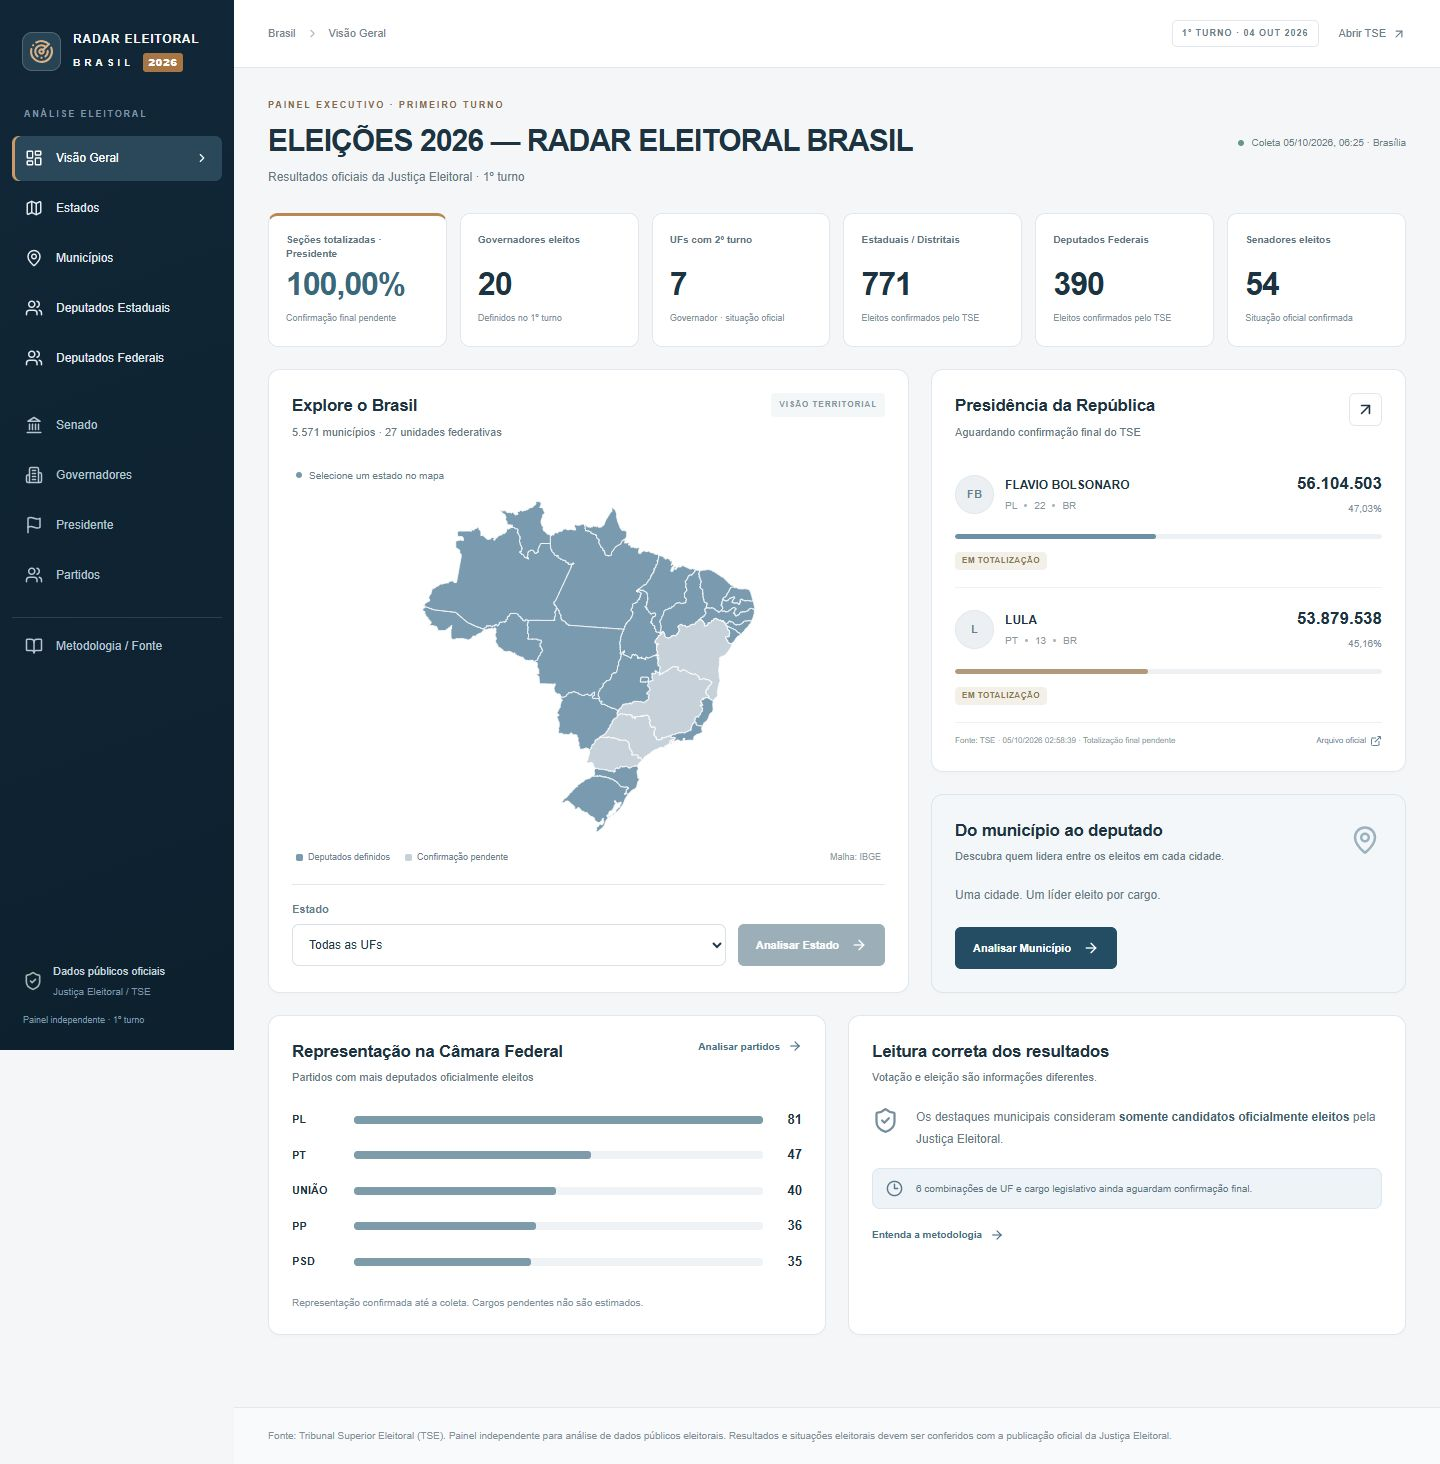
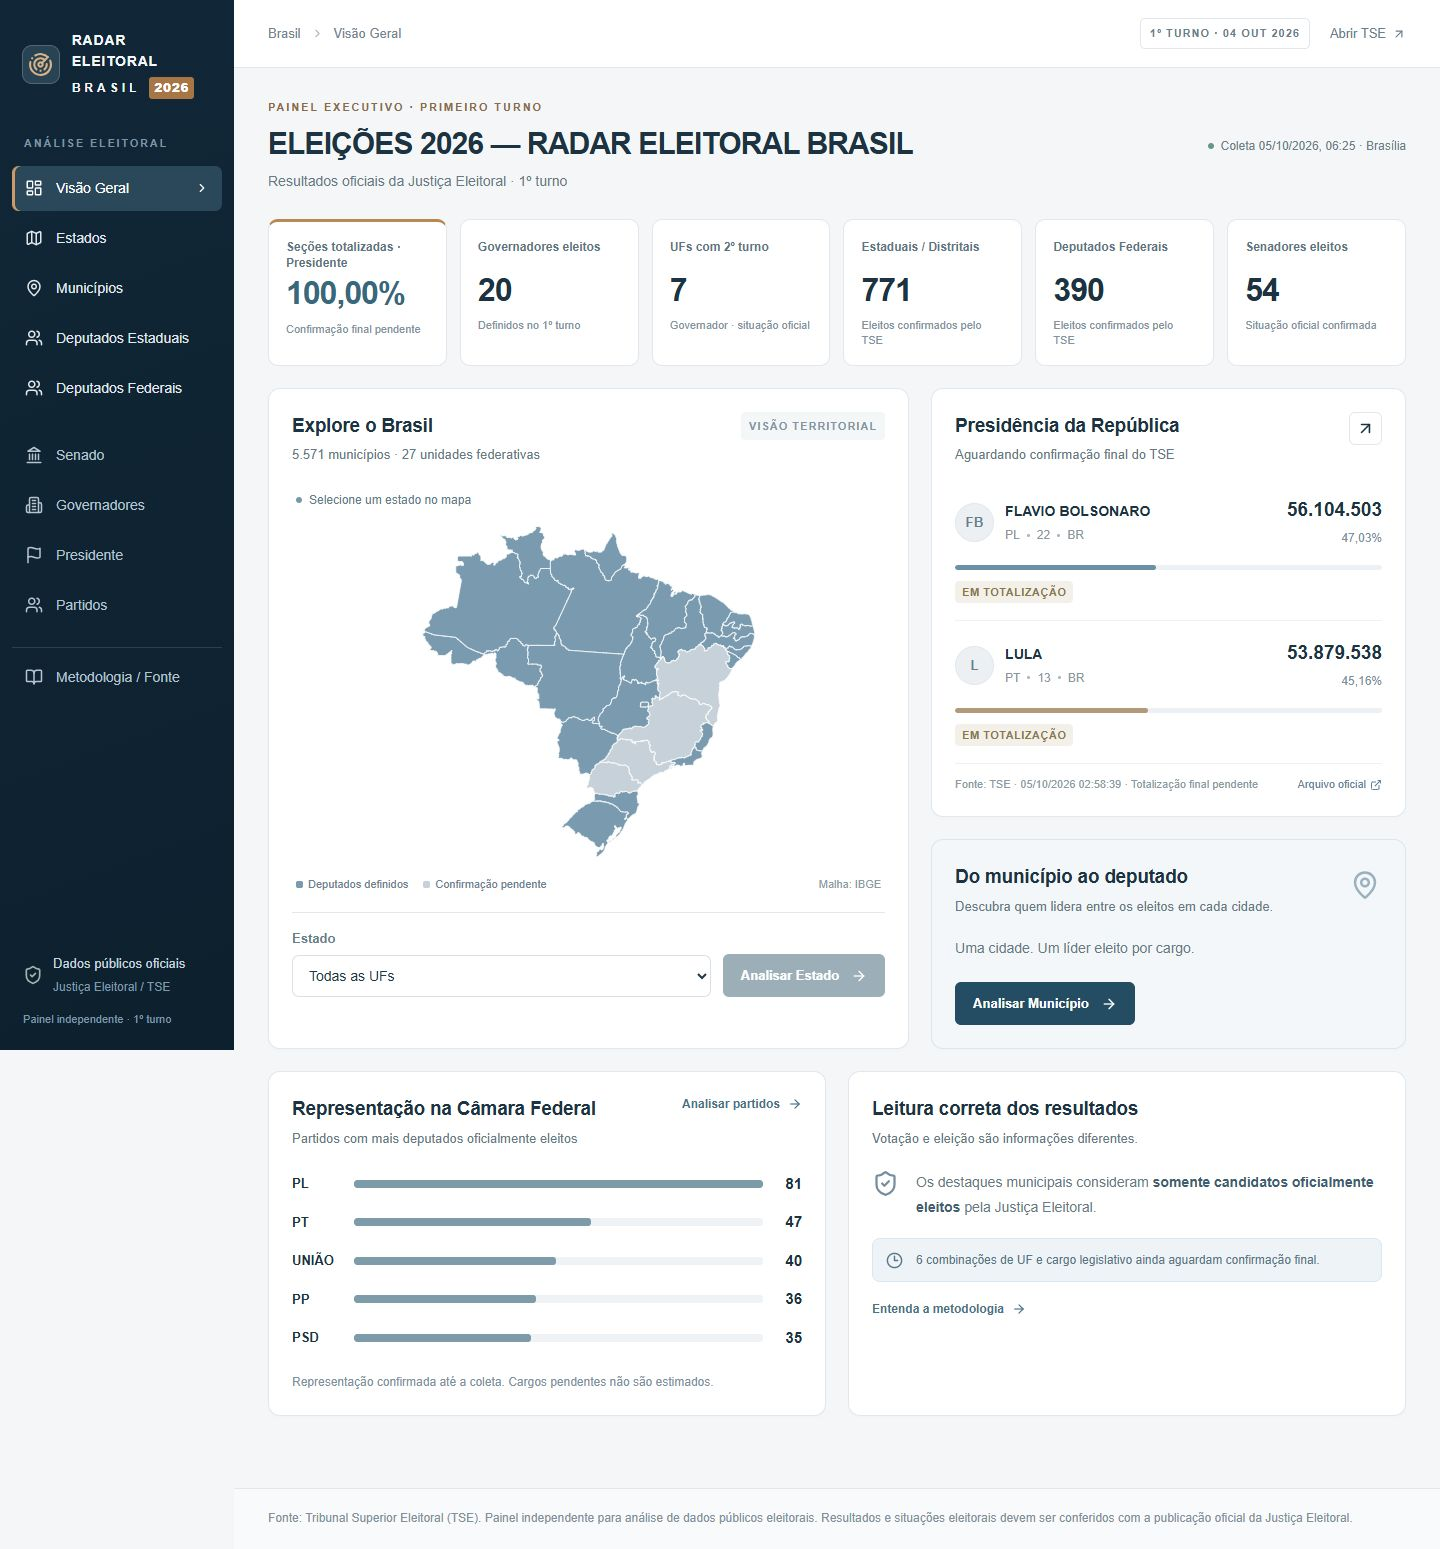
docs: registrar fontes ampliadas e verificacao HTTPS em producao

diff --git a/tests/browser/subpath.spec.ts b/tests/browser/subpath.spec.ts
@@ -34,6 +34,8 @@ test("evidencia visual publica desktop e mobile", async ({ page }) => {
   test.skip(!process.env.TEST_BASE_URL?.startsWith("https://"));
   await page.goto(root);
   await expect(page.getByRole("img", { name: "Mapa interativo dos 27 estados do Brasil" }).locator("a")).toHaveCount(27);
+  expect(await page.locator("body").evaluate(el => getComputedStyle(el).fontSize)).toBe("16px");
+  expect(await page.locator(".sidebar nav a").first().evaluate(el => getComputedStyle(el).fontSize)).toBe("14px");
   await page.screenshot({path:"docs/evidencias/publicado-home.jpg",fullPage:true});
   await page.setViewportSize({width:390,height:844});
   expect(await page.locator("body").evaluate(el => el.scrollWidth <= window.innerWidth)).toBe(true);

diff --git a/docs/deploy.md b/docs/deploy.md
@@ -25,7 +25,12 @@ Publicado e verificado em 05/10/2026. URL final: https://hubnio.com.br/dashpolit
 - Os containers anteriores permaneceram ativos, sem reinício. DNS, firewall e configuração global do proxy não foram alterados.
 - Evidências: `evidencias/publicacao-http-tls.json`, `publicado-home.jpg` e `publicado-mobile.jpg`.
 
-Código implantado: `bb76fa1`. Pacote privado: release `deploy-20261005`.
[1 lines of base64/hex data omitted]
+Código implantado após aumento das fontes: `7340503`. Pacote privado: release `legibilidade-20261005`.
+Versão anterior preservada na VPS: `20261005` / imagem `radar-eleitoral:20261005`.
[1 lines of base64/hex data omitted]
 
 O site oferece acesso público aos dados eleitorais oficiais; o código e o pacote de implantação permanecem no repositório privado. A base é a coleta de 05/10/2026 às 06:25 (Brasília), com pendências oficiais sinalizadas. Não há atualização automática.
+
+## Legibilidade publicada
+
+Fontes efetivamente verificadas no navegador público: corpo 16 px e menu 14 px. Container `radar-eleitoral:20261005-legibilidade` saudável e build/deploy com exit 0. Fluxo público e captura desktop/mobile reexecutados após a troca da versão.
